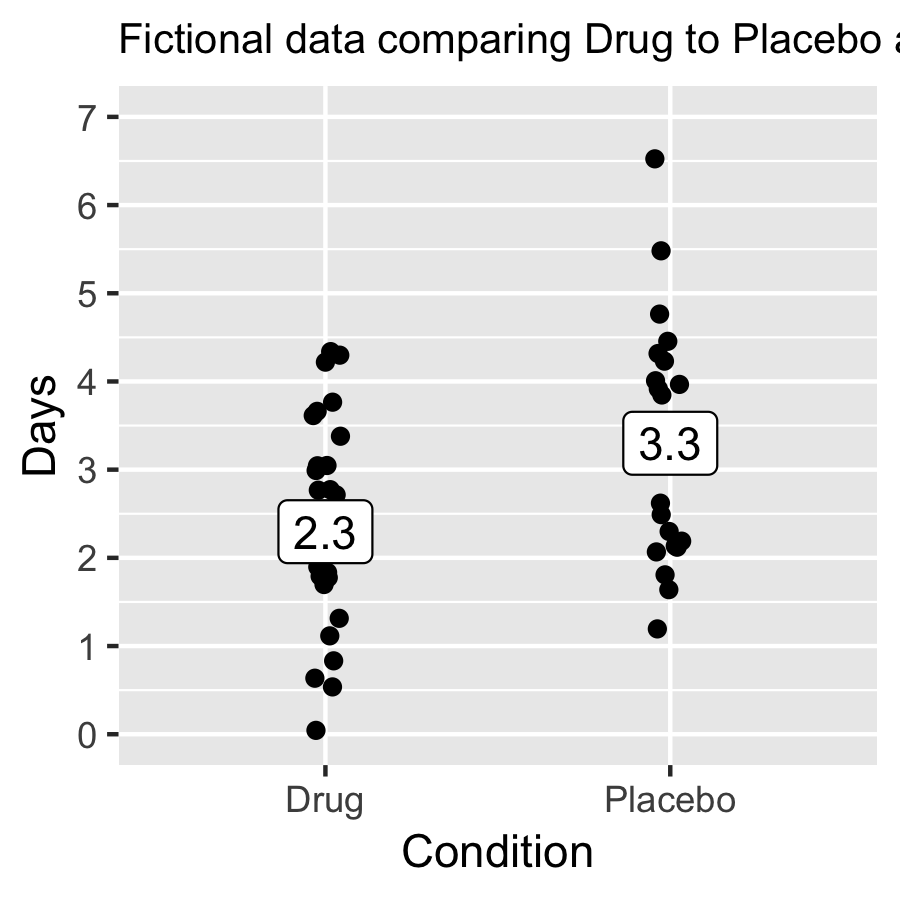
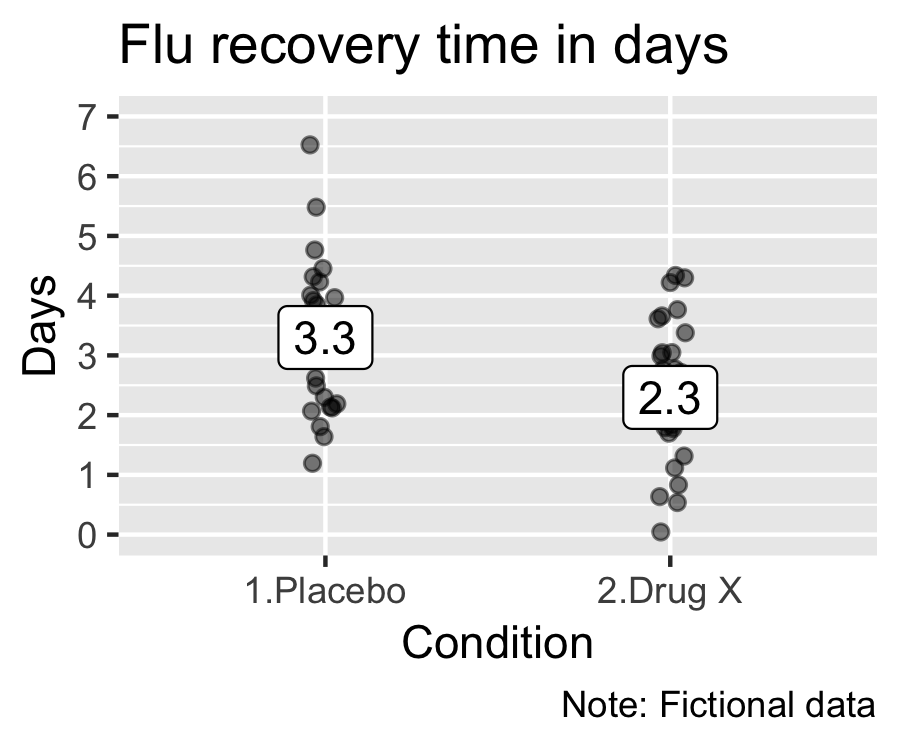
minor recap updates

Changed region(s): [[0.0, 0.0, 1.0, 0.9813]]

diff --git a/_sessions/Recap/Recap.html b/_sessions/Recap/Recap.html
@@ -91,7 +91,7 @@ This evaluation is performed by calculating the likelihood of obtaining the data
     A proposed effect &lt;high&gt;does exist&lt;/high&gt; and variation &lt;high&gt;is systematic&lt;/high&gt;
   &lt;/td&gt;  
   &lt;td bgcolor="white"&gt;
-    Drug and placebo do *not* have the same effect
+    Drug and placebo do &lt;b&gt;&lt;i&gt;not&lt;/i&gt;&lt;/b&gt; have the same effect
   &lt;/td&gt;  
 &lt;/tr&gt;
 &lt;/table&gt;
@@ -101,11 +101,22 @@ This evaluation is performed by calculating the likelihood of obtaining the data
 
 .pull-right45[
 
-&lt;br&gt;&lt;br&gt;&lt;br&gt;&lt;br&gt;
+&lt;br&gt;
+
+&lt;b&gt;Question&lt;/b&gt;&lt;br&gt;
+&lt;i&gt;Does "Drug X" reduce flu recovery time versus a placebo?&lt;/i&gt;
+
+&lt;b&gt;Hypotheses&lt;/b&gt;&lt;br&gt;
+
+
+`$$\large H_{0}: \mu_{Drug\;X} = \mu_{Placebo}$$`
+`$$\large H_{1}: \mu_{Drug\;X} \neq \mu_{Placebo}$$`
+
+&lt;b&gt;Sample Data&lt;/b&gt;
 
 
 
-&lt;img src="Recap_files/figure-html/unnamed-chunk-2-1.png" width="100%" /&gt;
+&lt;img src="Recap_files/figure-html/unnamed-chunk-2-1.png" width="70%" style="display: block; margin: auto;" /&gt;
 
 
 ]
@@ -633,23 +644,12 @@ if (window.HTMLWidgets) slideshow.on('afterShowSlide', function (slide) {
   d.head.appendChild(s);
 })();</script>
 
-<script>
-(function() {
-  var i, text, code, codes = document.getElementsByTagName('code');
-  for (i = 0; i < codes.length;) {
-    code = codes[i];
-    if (code.parentNode.tagName !== 'PRE' && code.childElementCount === 0) {
-      text = code.textContent;
-      if (/^\\\((.|\s)+\\\)$/.test(text) || /^\\\[(.|\s)+\\\]$/.test(text) ||
-          /^\$\$(.|\s)+\$\$$/.test(text) ||
-          /^\\begin\{([^}]+)\}(.|\s)+\\end\{[^}]+\}$/.test(text)) {
-        code.outerHTML = code.innerHTML;  // remove <code></code>
-        continue;
-      }
-    }
-    i++;
+<script type="text/x-mathjax-config">
+MathJax.Hub.Config({
+  tex2jax: {
+    skipTags: ['script', 'noscript', 'style', 'textarea', 'pre']
   }
-})();
+});
 </script>
 <!-- dynamically load mathjax for compatibility with self-contained -->
 <script>

diff --git a/_sessions/Recap/libs/remark-css/default.css b/_sessions/Recap/libs/remark-css/default.css
@@ -51,14 +51,14 @@ blockquote {
   border-left: solid 5px lightgray;
   padding-left: 1em;
 }
-.remark-slide table {
+table {
   margin: auto;
   border-top: 1px solid #666;
   border-bottom: 1px solid #666;
 }
-.remark-slide table thead th { border-bottom: 1px solid #ddd; }
+table thead th { border-bottom: 1px solid #ddd; }
 th, td { padding: 5px; }
-.remark-slide thead, .remark-slide tfoot, .remark-slide tr:nth-child(even) { background: #eee }
+thead, tfoot, tr:nth-child(even) { background: #eee }
 
 @page { margin: 0; }
 @media print {
